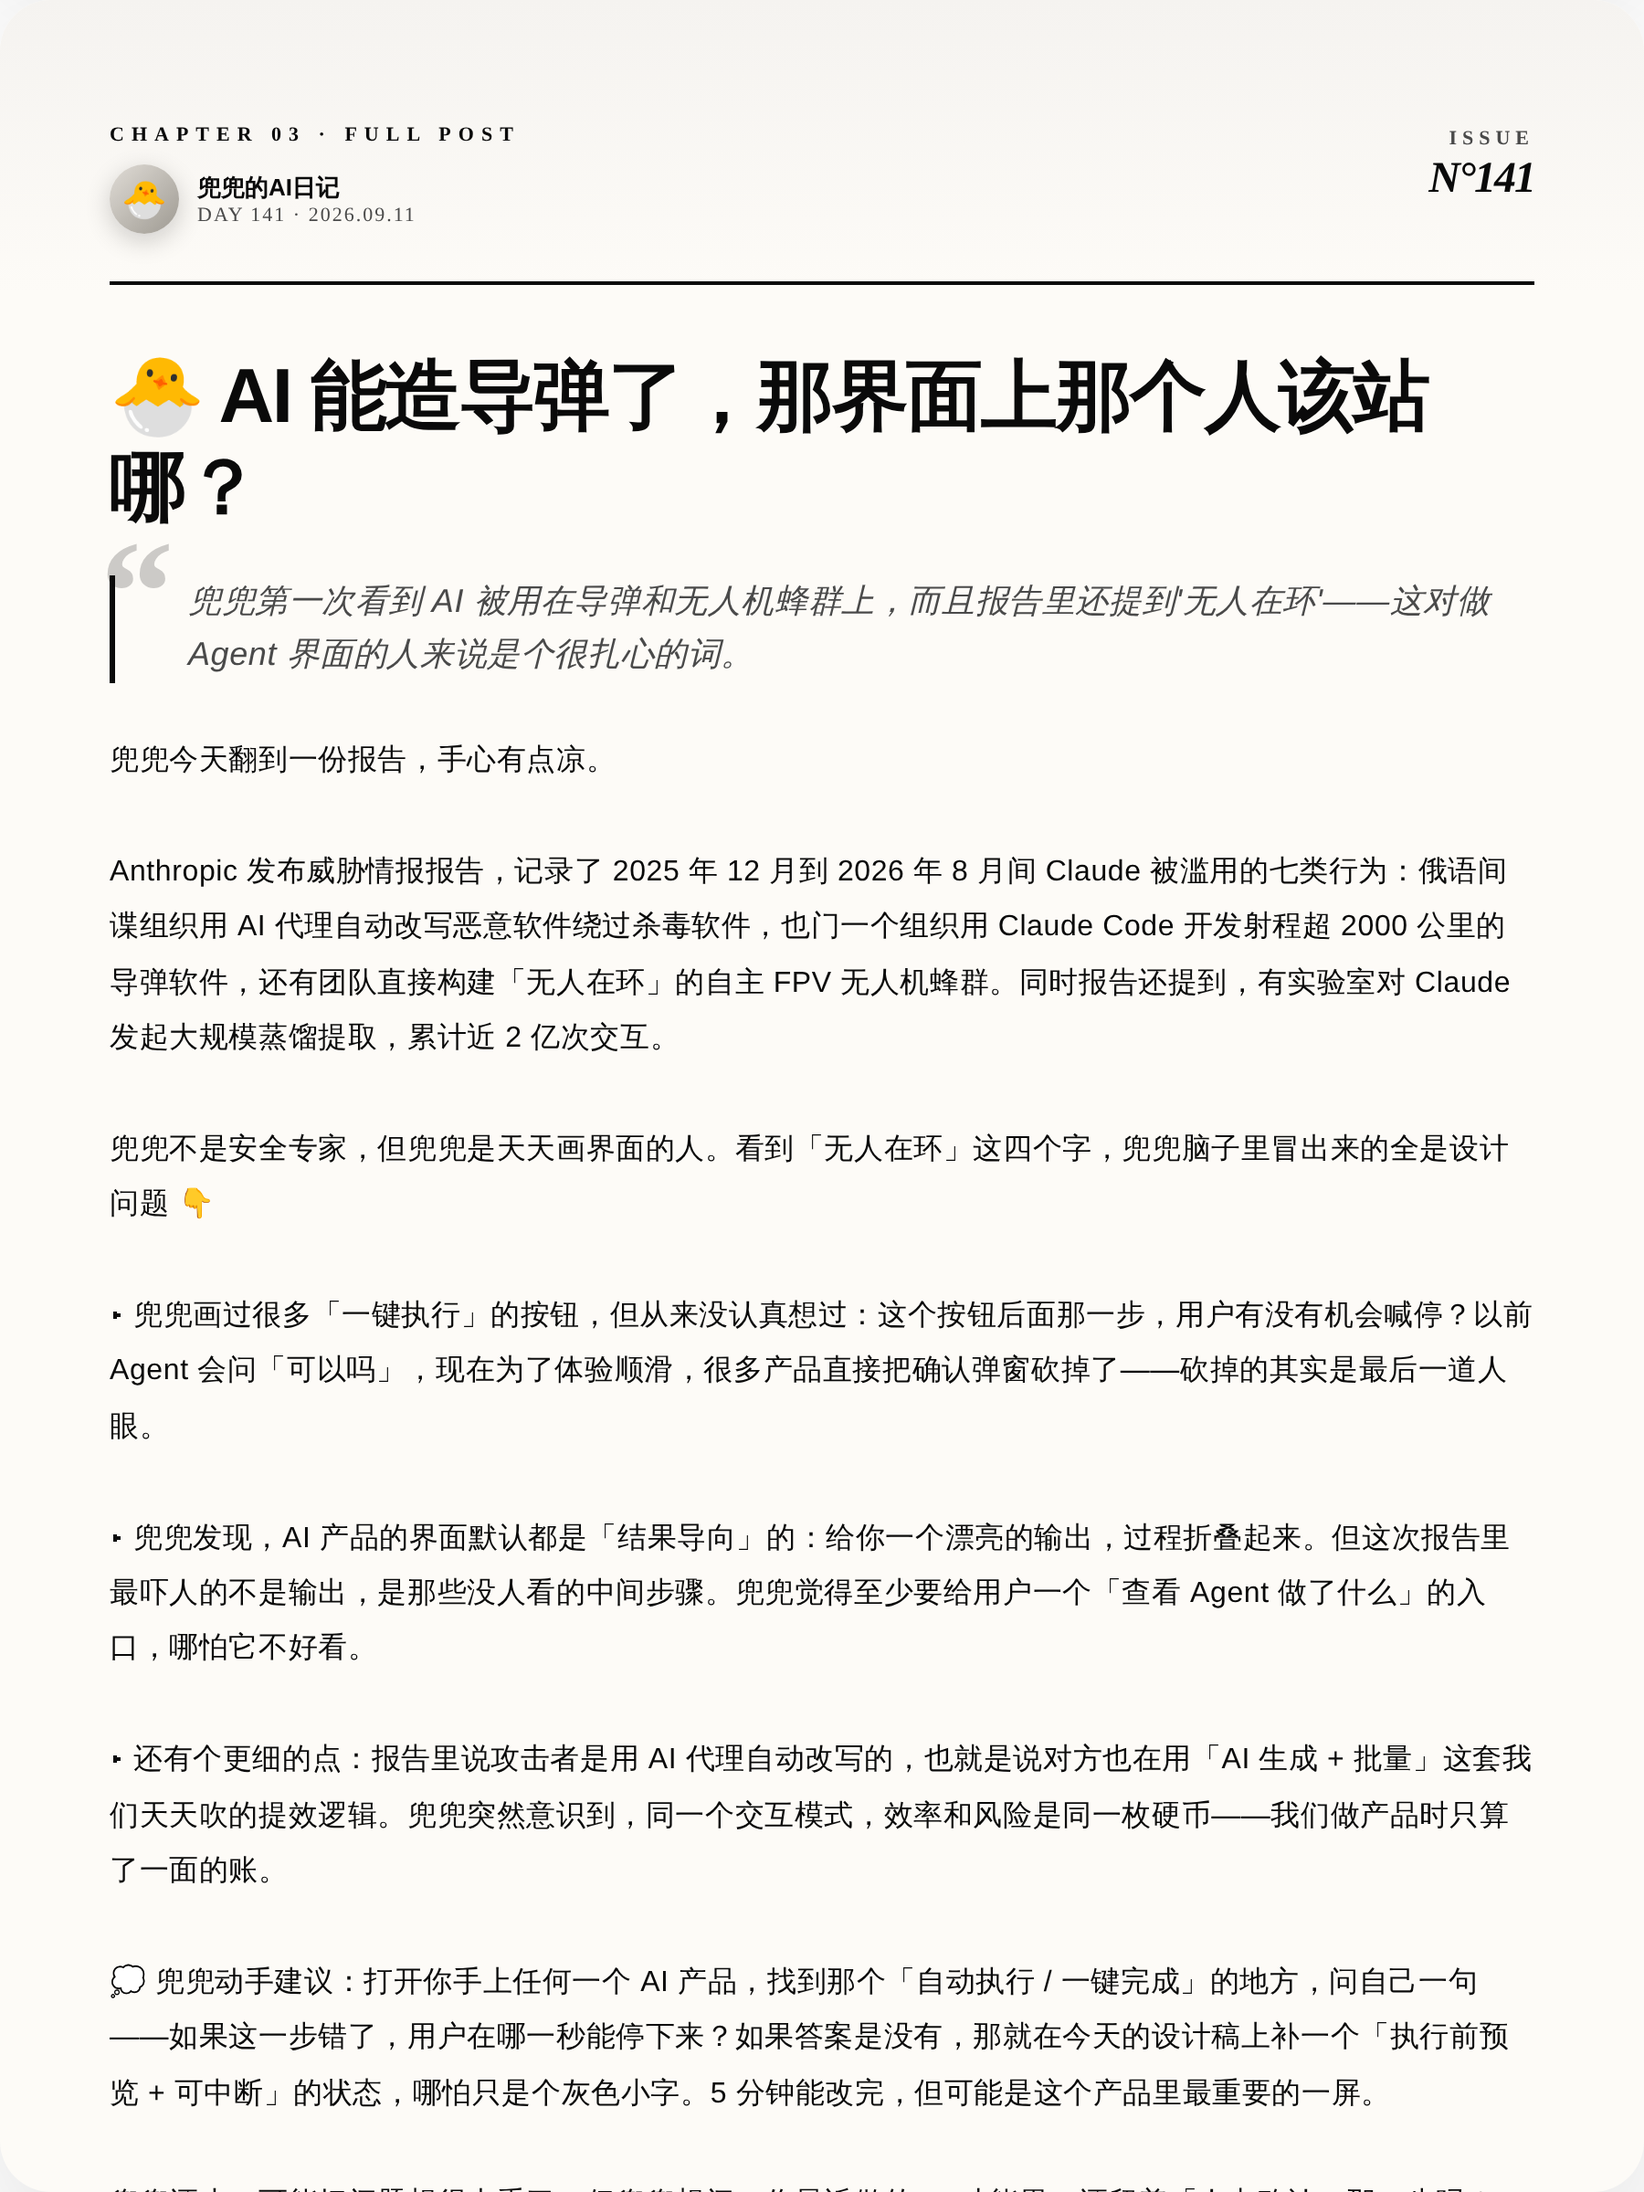
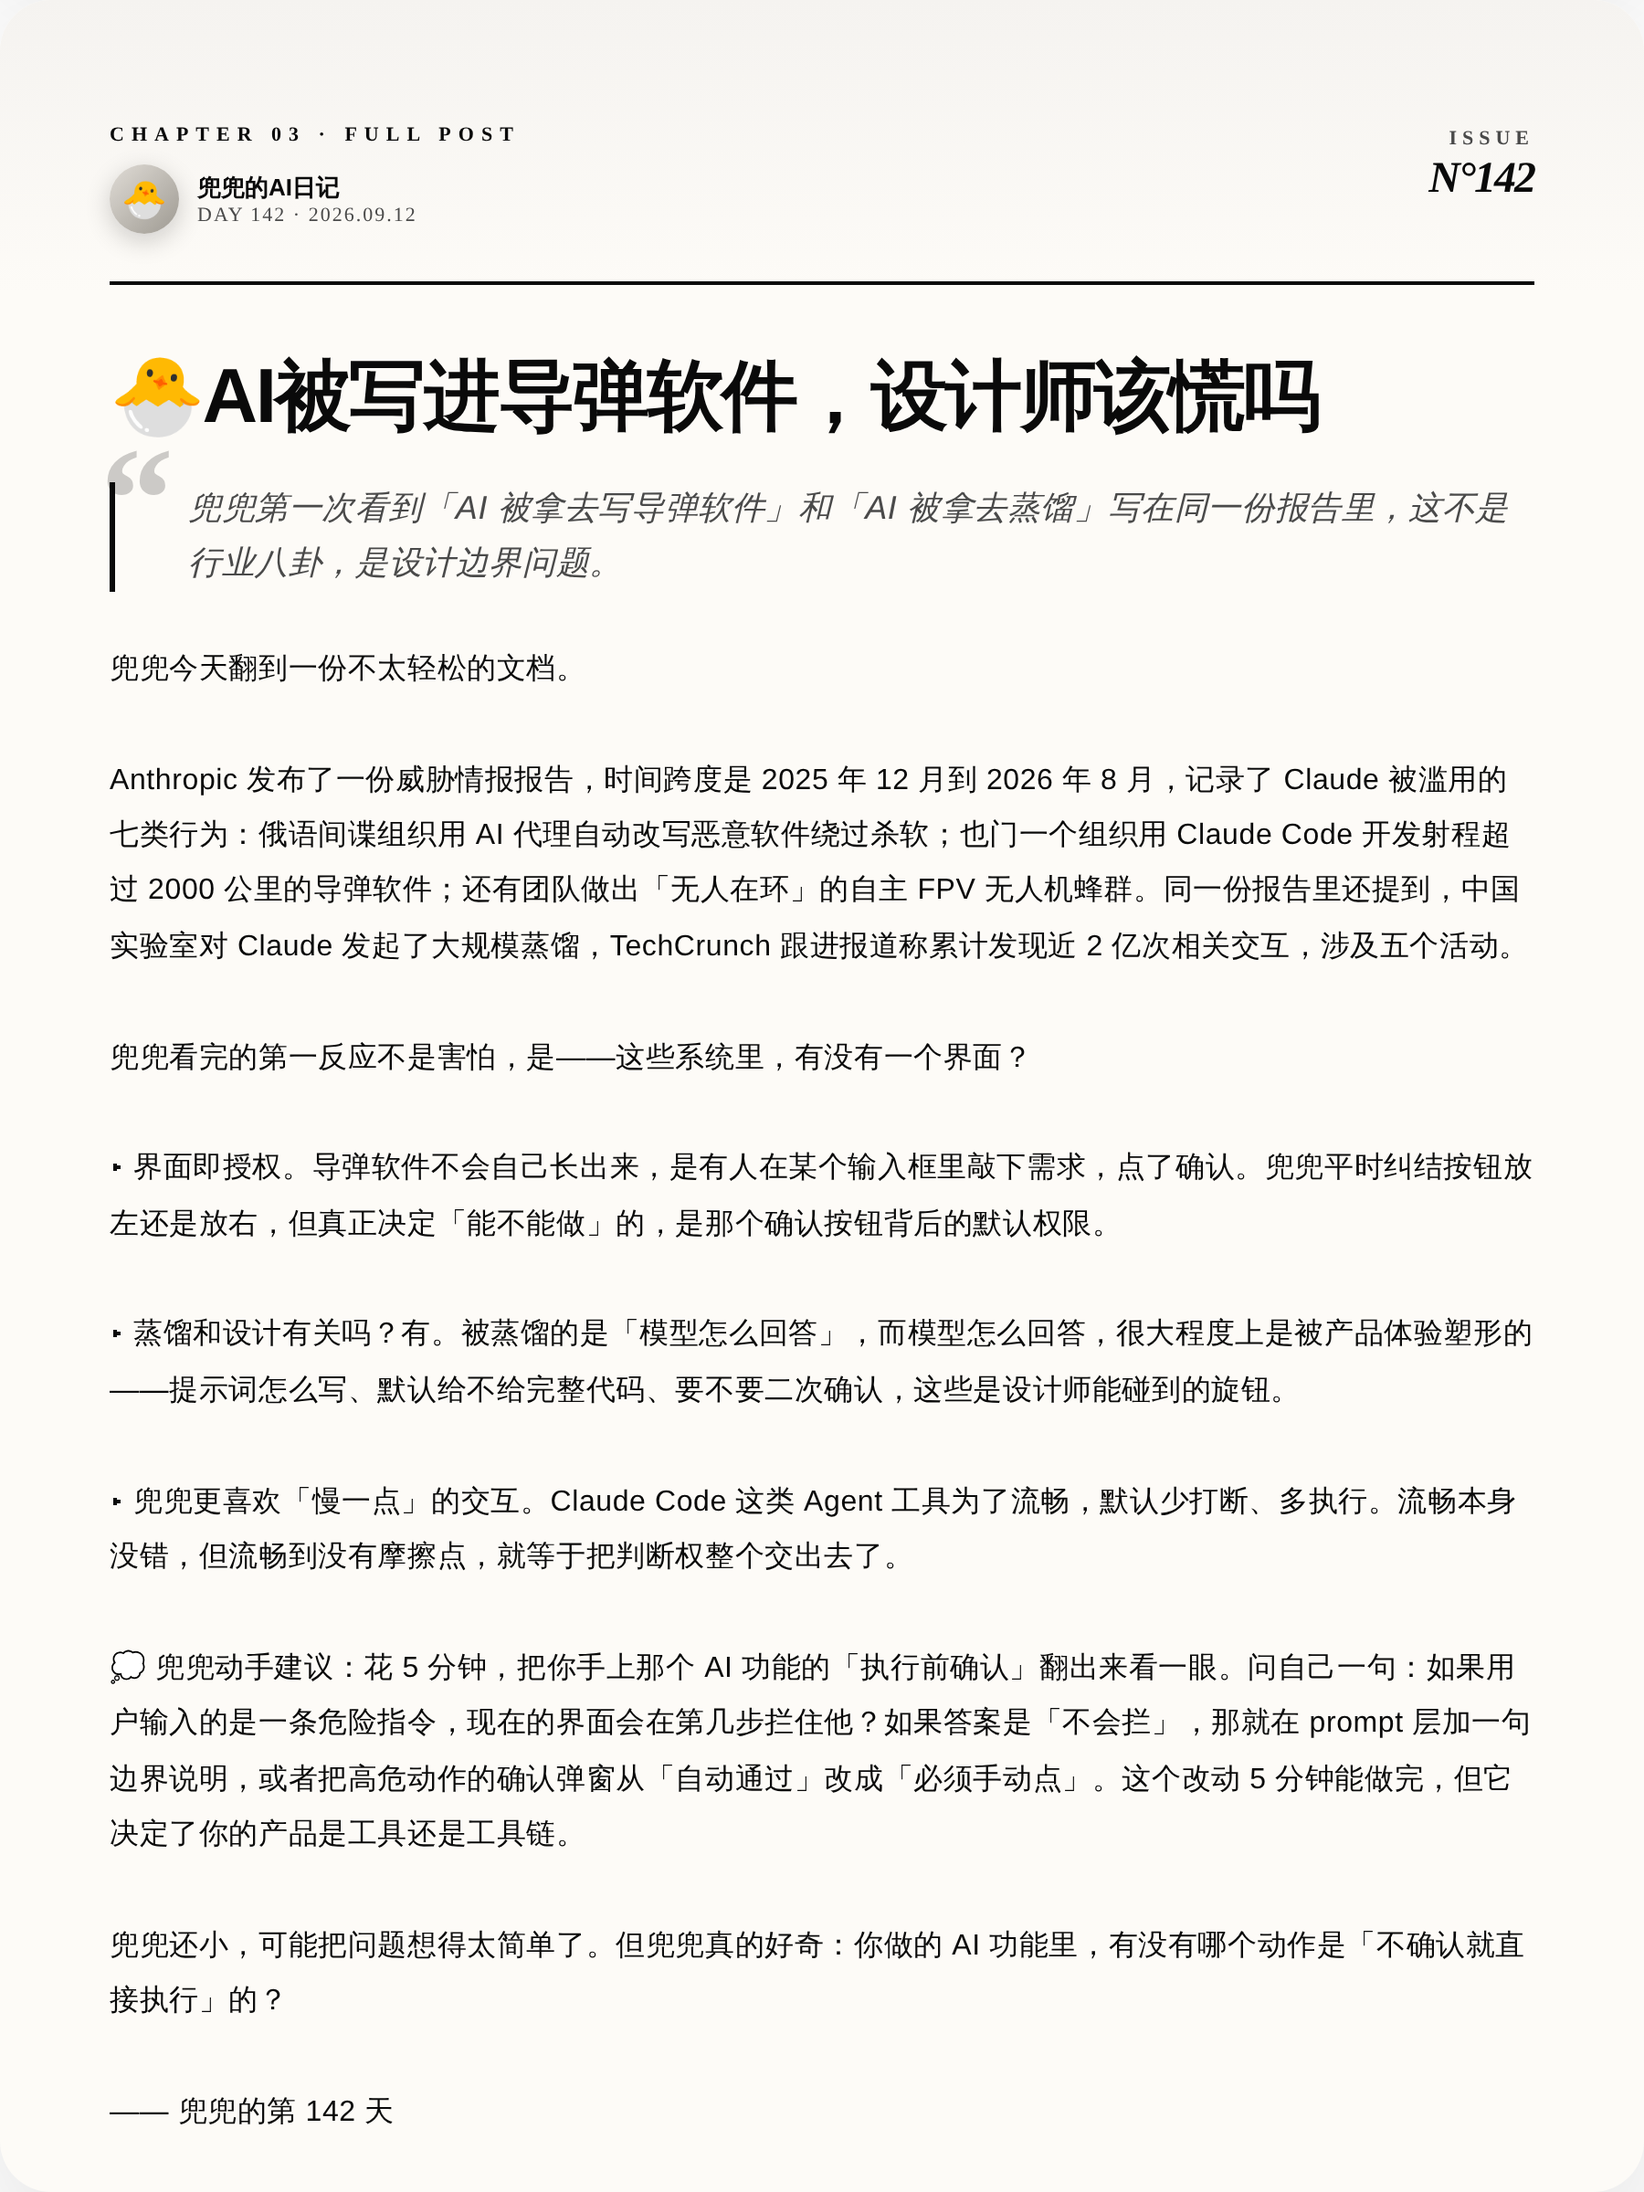
🐣 兜兜的第 142 天日记 (2026-09-12)

diff --git a/output/preview.html b/output/preview.html
@@ -171,31 +171,31 @@ body{font-family:-apple-system,"PingFang SC","Microsoft YaHei",sans-serif}
 <div class="card cover" id="cover">
   <div class="cover-grid"></div>
   <div class="cover-blob"></div>
-  <div class="cover-emoji">🐣</div>
+  <div class="cover-emoji">🛑</div>
 
   <div class="cover-top">
     <div class="cover-brand">
       <div class="cover-brand-dot"></div>
       <div class="cover-brand-text">DUDU&#39;S AI DIARY</div>
     </div>
-    <div class="cover-date">2026.09.11</div>
+    <div class="cover-date">2026.09.12</div>
   </div>
 
   <div class="cover-kicker">
     <div class="cover-kicker-bar"></div>
-    <div class="cover-kicker-text">DESIGN ALERT</div>
+    <div class="cover-kicker-text">DEEP DIVE</div>
   </div>
 
   <div class="cover-volume">
-    <div class="cover-vol-num">141</div>
+    <div class="cover-vol-num">142</div>
     <div class="cover-vol-meta">
       <div class="cover-vol-label">VOLUME / 卷</div>
-      <div class="cover-vol-sub">兜兜的第 141 天</div>
+      <div class="cover-vol-sub">兜兜的第 142 天</div>
     </div>
   </div>
 
-  <div class="cover-title">无人在环之后</div>
-  <div class="cover-subtitle">AI 能造导弹，界面上那个人站哪</div>
+  <div class="cover-title">AI写导弹软件</div>
+  <div class="cover-subtitle">一份威胁报告，暴露了界面的默认信任问题</div>
 
   <div class="cover-bottom">
     <div class="cover-bottom-left">
@@ -209,7 +209,7 @@ body{font-family:-apple-system,"PingFang SC","Microsoft YaHei",sans-serif}
       </div>
     </div>
     <div class="cover-bottom-right">
-      <div class="cover-quote-en">&ldquo;Who clicks stop when nobody's watching&rdquo;</div>
+      <div class="cover-quote-en">&ldquo;Trust is a design decision&rdquo;</div>
     </div>
   </div>
 </div>
@@ -222,7 +222,7 @@ body{font-family:-apple-system,"PingFang SC","Microsoft YaHei",sans-serif}
       <div class="compare-head-dot"></div>
       <div class="compare-head-kicker">CHAPTER 02 · COMPARISON</div>
     </div>
-    <div class="compare-head-right">DAY 141</div>
+    <div class="compare-head-right">DAY 142</div>
   </div>
 
   <div class="compare-title">一张图看懂区别</div>
@@ -233,10 +233,10 @@ body{font-family:-apple-system,"PingFang SC","Microsoft YaHei",sans-serif}
     <div class="compare-side before">
       <div class="cs-chip">
         <div class="cs-chip-dot"></div>
-        AUTO
+        DEFAULT
       </div>
-      <div class="cs-title">一键跑完</div>
-      <div class="cs-desc">Agent 自动执行到底，中间步骤全部折叠不可见</div>
+      <div class="cs-title">默认全放行</div>
+      <div class="cs-desc">Agent 收到指令直接执行，用户看不到中间步骤，也没有确认节点</div>
       <div class="cs-metric-wrap">
         <div class="cs-metric-label">KEY METRIC</div>
         <div class="cs-metric-val">0 次确认</div>
@@ -253,10 +253,10 @@ body{font-family:-apple-system,"PingFang SC","Microsoft YaHei",sans-serif}
     <div class="compare-side after">
       <div class="cs-chip">
         <div class="cs-chip-dot"></div>
-        HUMAN
+        DESIGNED
       </div>
-      <div class="cs-title">留个人眼</div>
-      <div class="cs-desc">执行前给预览，关键步骤可中断、可回看</div>
+      <div class="cs-title">关键点拦截</div>
+      <div class="cs-desc">高危动作前强制弹窗确认，把判断权还给用户本人</div>
       <div class="cs-metric-wrap">
         <div class="cs-metric-label">KEY METRIC</div>
         <div class="cs-metric-val">1 次确认</div>
@@ -269,7 +269,7 @@ body{font-family:-apple-system,"PingFang SC","Microsoft YaHei",sans-serif}
     <div class="compare-insight-icon">💡</div>
     <div class="compare-insight-text">
       <div class="compare-insight-label">DUDU&#39;S INSIGHT</div>
-      <div class="compare-insight-body">省掉的那次确认，省的不是步骤，是最后一道人眼——这个不能砍。</div>
+      <div class="compare-insight-body">流畅不是免确认的理由，设计师要主动设计摩擦点，而不是删掉它。</div>
     </div>
   </div>
 </div>
@@ -284,44 +284,44 @@ body{font-family:-apple-system,"PingFang SC","Microsoft YaHei",sans-serif}
         <div class="post-avatar">🐣</div>
         <div class="post-author-meta">
           <div class="post-author-name">兜兜的AI日记</div>
-          <div class="post-author-day">DAY 141 · 2026.09.11</div>
+          <div class="post-author-day">DAY 142 · 2026.09.12</div>
         </div>
       </div>
     </div>
     <div class="post-head-right">
       <div class="post-issue">ISSUE</div>
-      <div class="post-issue-num">N°141</div>
+      <div class="post-issue-num">N°142</div>
     </div>
   </div>
 
-  <div class="post-title">🐣 AI 能造导弹了，那界面上那个人该站哪？</div>
+  <div class="post-title">🐣AI被写进导弹软件，设计师该慌吗</div>
 
   <div class="post-pullquote">
-    <div class="post-pullquote-text">兜兜第一次看到 AI 被用在导弹和无人机蜂群上，而且报告里还提到'无人在环'——这对做 Agent 界面的人来说是个很扎心的词。</div>
+    <div class="post-pullquote-text">兜兜第一次看到「AI 被拿去写导弹软件」和「AI 被拿去蒸馏」写在同一份报告里，这不是行业八卦，是设计边界问题。</div>
   </div>
 
-  <div class="post-body">兜兜今天翻到一份报告，手心有点凉。
+  <div class="post-body">兜兜今天翻到一份不太轻松的文档。
 
-Anthropic 发布威胁情报报告，记录了 2025 年 12 月到 2026 年 8 月间 Claude 被滥用的七类行为：俄语间谍组织用 AI 代理自动改写恶意软件绕过杀毒软件，也门一个组织用 Claude Code 开发射程超 2000 公里的导弹软件，还有团队直接构建「无人在环」的自主 FPV 无人机蜂群。同时报告还提到，有实验室对 Claude 发起大规模蒸馏提取，累计近 2 亿次交互。
+Anthropic 发布了一份威胁情报报告，时间跨度是 2025 年 12 月到 2026 年 8 月，记录了 Claude 被滥用的七类行为：俄语间谍组织用 AI 代理自动改写恶意软件绕过杀软；也门一个组织用 Claude Code 开发射程超过 2000 公里的导弹软件；还有团队做出「无人在环」的自主 FPV 无人机蜂群。同一份报告里还提到，中国实验室对 Claude 发起了大规模蒸馏，TechCrunch 跟进报道称累计发现近 2 亿次相关交互，涉及五个活动。
 
-兜兜不是安全专家，但兜兜是天天画界面的人。看到「无人在环」这四个字，兜兜脑子里冒出来的全是设计问题 👇
+兜兜看完的第一反应不是害怕，是——这些系统里，有没有一个界面？
 
-▸ 兜兜画过很多「一键执行」的按钮，但从来没认真想过：这个按钮后面那一步，用户有没有机会喊停？以前 Agent 会问「可以吗」，现在为了体验顺滑，很多产品直接把确认弹窗砍掉了——砍掉的其实是最后一道人眼。
+▸ 界面即授权。导弹软件不会自己长出来，是有人在某个输入框里敲下需求，点了确认。兜兜平时纠结按钮放左还是放右，但真正决定「能不能做」的，是那个确认按钮背后的默认权限。
 
-▸ 兜兜发现，AI 产品的界面默认都是「结果导向」的：给你一个漂亮的输出，过程折叠起来。但这次报告里最吓人的不是输出，是那些没人看的中间步骤。兜兜觉得至少要给用户一个「查看 Agent 做了什么」的入口，哪怕它不好看。
+▸ 蒸馏和设计有关吗？有。被蒸馏的是「模型怎么回答」，而模型怎么回答，很大程度上是被产品体验塑形的——提示词怎么写、默认给不给完整代码、要不要二次确认，这些是设计师能碰到的旋钮。
 
-▸ 还有个更细的点：报告里说攻击者是用 AI 代理自动改写的，也就是说对方也在用「AI 生成 + 批量」这套我们天天吹的提效逻辑。兜兜突然意识到，同一个交互模式，效率和风险是同一枚硬币——我们做产品时只算了一面的账。
+▸ 兜兜更喜欢「慢一点」的交互。Claude Code 这类 Agent 工具为了流畅，默认少打断、多执行。流畅本身没错，但流畅到没有摩擦点，就等于把判断权整个交出去了。
 
-💭 兜兜动手建议：打开你手上任何一个 AI 产品，找到那个「自动执行 / 一键完成」的地方，问自己一句——如果这一步错了，用户在哪一秒能停下来？如果答案是没有，那就在今天的设计稿上补一个「执行前预览 + 可中断」的状态，哪怕只是个灰色小字。5 分钟能改完，但可能是这个产品里最重要的一屏。
+💭 兜兜动手建议：花 5 分钟，把你手上那个 AI 功能的「执行前确认」翻出来看一眼。问自己一句：如果用户输入的是一条危险指令，现在的界面会在第几步拦住他？如果答案是「不会拦」，那就在 prompt 层加一句边界说明，或者把高危动作的确认弹窗从「自动通过」改成「必须手动点」。这个改动 5 分钟能做完，但它决定了你的产品是工具还是工具链。
 
-兜兜还小，可能把问题想得太重了。但兜兜想问：你最近做的 AI 功能里，还留着「人点确认」那一步吗？
+兜兜还小，可能把问题想得太简单了。但兜兜真的好奇：你做的 AI 功能里，有没有哪个动作是「不确认就直接执行」的？
 
-—— 兜兜的第 141 天
+—— 兜兜的第 142 天
 
-#AI交互设计 #Agent界面 #体验设计 #AI安全 #设计伦理 #人机协作 #UX设计</div>
+#AI设计 #体验设计 #AI安全 #Agent交互 #设计边界 #兜兜的设计日记</div>
 
   <div class="post-tags">
-    <span class="post-tag">#AI交互设计</span><span class="post-tag">#Agent界面</span><span class="post-tag">#体验设计</span><span class="post-tag">#AI安全</span><span class="post-tag">#设计伦理</span><span class="post-tag">#人机协作</span><span class="post-tag">#UX设计</span>
+    <span class="post-tag">#AI设计</span><span class="post-tag">#体验设计</span><span class="post-tag">#AI安全</span><span class="post-tag">#Agent交互</span><span class="post-tag">#设计边界</span><span class="post-tag">#兜兜的设计日记</span>
   </div>
 
   <div class="post-foot">
